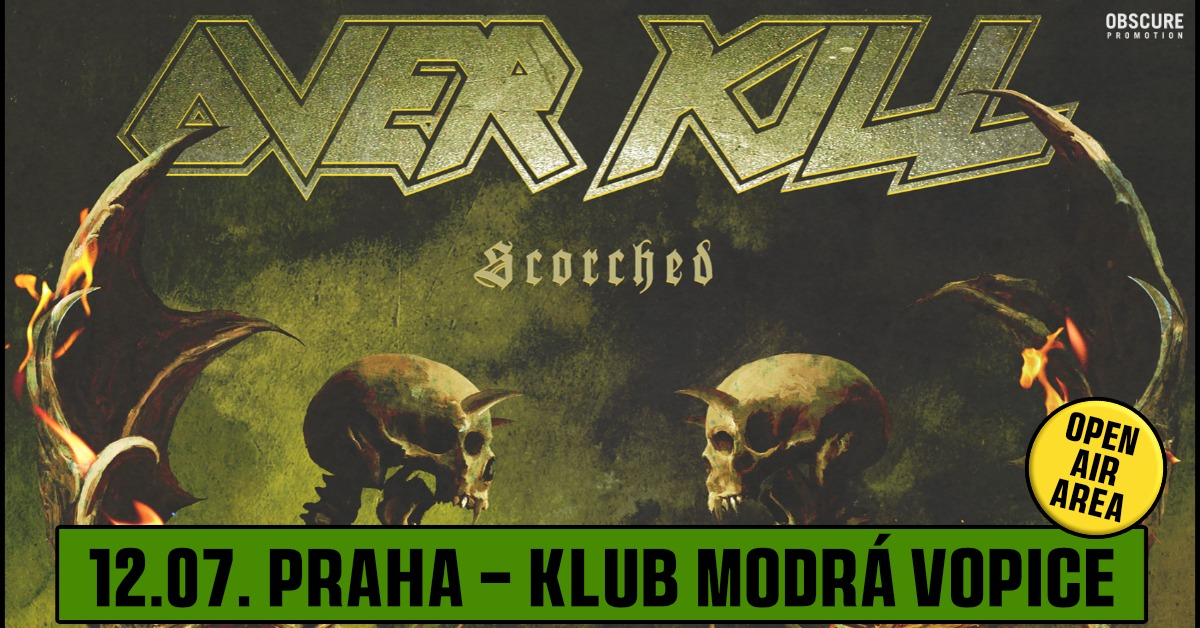
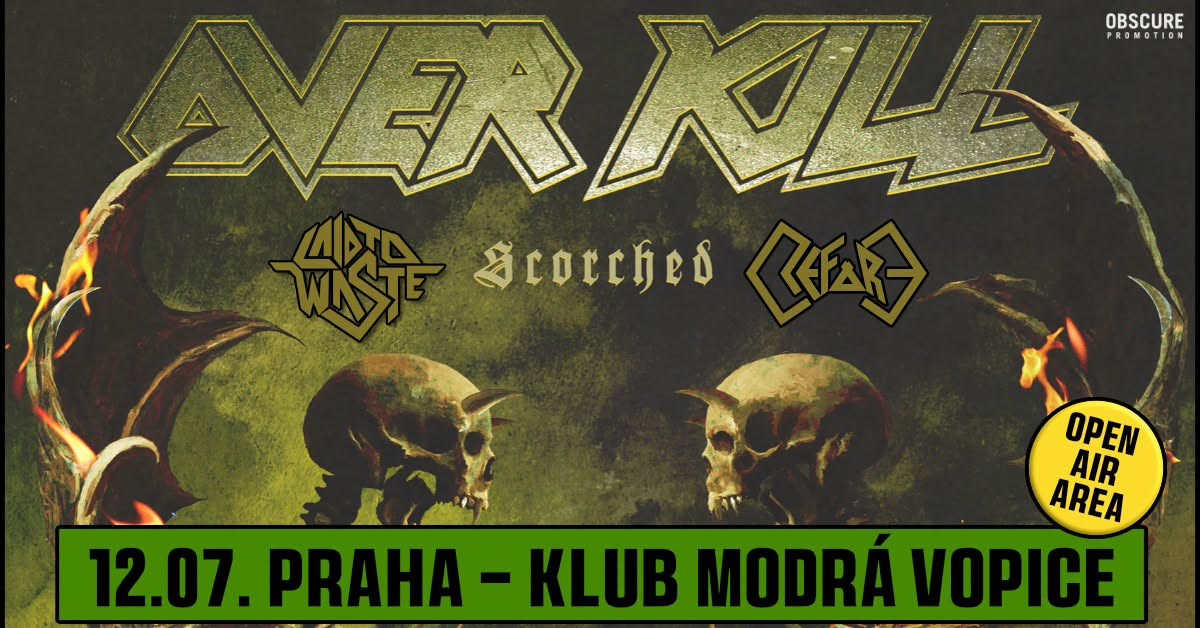
edit wtf8

Changed region(s): [[0.6167, 0.3328, 0.7708, 0.5143], [0.2158, 0.3328, 0.37, 0.5446]]

diff --git a/_posts/2026-07-12-OVERKILL-LAID-TO-WASTE-REFORE-Praha-Modra-Vopice-12-cervence-2026.md b/_posts/2026-07-12-OVERKILL-LAID-TO-WASTE-REFORE-Praha-Modra-Vopice-12-cervence-2026.md
@@ -7,6 +7,18 @@ categories: [Koncerty, Praha / Modrá Vopice]
 tags: [Overkill, Laid to Waste, Refore]
 ---
 
-# Hello World
+"Sed ut perspiciatis unde omnis iste natus error sit voluptatem accusantium doloremque laudantium, totam rem aperiam, eaque ipsa quae ab illo inventore veritatis et quasi architecto beatae vitae dicta sunt explicabo. Nemo enim ipsam voluptatem quia voluptas sit aspernatur aut odit aut fugit, sed quia consequuntur magni dolores eos qui ratione voluptatem sequi nesciunt. Neque porro quisquam est, qui dolorem ipsum quia dolor sit amet, consectetur, adipisci velit, sed quia non numquam eius modi tempora incidunt ut labore et dolore magnam 
 
-"Sed ut perspiciatis unde omnis iste natus error sit voluptatem accusantium doloremque laudantium, totam rem aperiam, eaque ipsa quae ab illo inventore veritatis et quasi architecto beatae vitae dicta sunt explicabo. Nemo enim ipsam voluptatem quia voluptas sit aspernatur aut odit aut fugit, sed quia consequuntur magni dolores eos qui ratione voluptatem sequi nesciunt. Neque porro quisquam est, qui dolorem ipsum quia dolor sit amet, consectetur, adipisci velit, sed quia non numquam eius modi tempora incidunt ut labore et dolore magnam aliquam quaerat voluptatem. Ut enim ad minima veniam, quis nostrum exercitationem ullam corporis suscipit laboriosam, nisi ut aliquid ex ea commodi consequatur? Quis autem vel eum iure reprehenderit qui in ea voluptate velit esse quam nihil molestiae consequatur, vel illum qui dolorem eum fugiat quo voluptas nulla pariatur?"
+# Refore
+
+"Sed ut perspiciatis unde omnis iste natus error sit voluptatem accusantium doloremque laudantium, totam rem aperiam, eaque ipsa quae ab illo inventore veritatis et quasi architecto beatae vitae dicta sunt explicabo. Nemo enim ipsam voluptatem quia voluptas sit aspernatur aut odit aut fugit, sed quia consequuntur magni dolores eos qui ratione voluptatem sequi nesciunt. Neque porro quisquam est, qui dolorem ipsum quia dolor sit amet, consectetur, adipisci velit, sed quia non numquam eius modi tempora incidunt ut labore et dolore magnam aliquam quaerat voluptatem. Ut enim ad minima veniam, quis nostrum exercitationem ullam corporis suscipit 
+
+# Laid to Waste
+
+"Sed ut perspiciatis unde omnis iste natus error sit voluptatem accusantium doloremque laudantium, totam rem aperiam, eaque ipsa quae ab illo inventore veritatis et quasi architecto beatae vitae dicta sunt explicabo. Nemo enim ipsam voluptatem quia voluptas sit aspernatur aut odit aut fugit, sed quia consequuntur magni dolores eos qui ratione voluptatem sequi nesciunt. Neque porro quisquam est, qui dolorem ipsum quia dolor sit amet, consectetur, adipisci velit, sed quia non numquam eius modi tempora incidunt ut labore et dolore magnam aliquam quaerat voluptatem. Ut enim ad minima veniam, quis nostrum exercitationem ullam corporis suscipit 
+
+# Overkill
+
+"Sed ut perspiciatis unde omnis iste natus error sit voluptatem accusantium doloremque laudantium, totam rem aperiam, eaque ipsa quae ab illo inventore veritatis et quasi architecto beatae vitae dicta sunt explicabo. Nemo enim ipsam voluptatem quia voluptas sit aspernatur aut odit aut fugit, sed quia consequuntur magni dolores eos qui ratione voluptatem sequi nesciunt. Neque porro quisquam est, qui dolorem ipsum quia dolor sit amet, consectetur, adipisci velit, sed quia non numquam eius modi tempora incidunt ut labore et dolore magnam aliquam quaerat voluptatem. Ut enim ad minima veniam, quis nostrum exercitationem ullam corporis suscipit 
+
+"Sed ut perspiciatis unde omnis iste natus error sit voluptatem accusantium doloremque laudantium, totam rem aperiam, eaque ipsa quae ab illo inventore veritatis et quasi architecto beatae vitae dicta sunt explicabo. Nemo enim ipsam voluptatem quia voluptas sit aspernatur aut odit aut fugit, sed quia consequuntur magni
